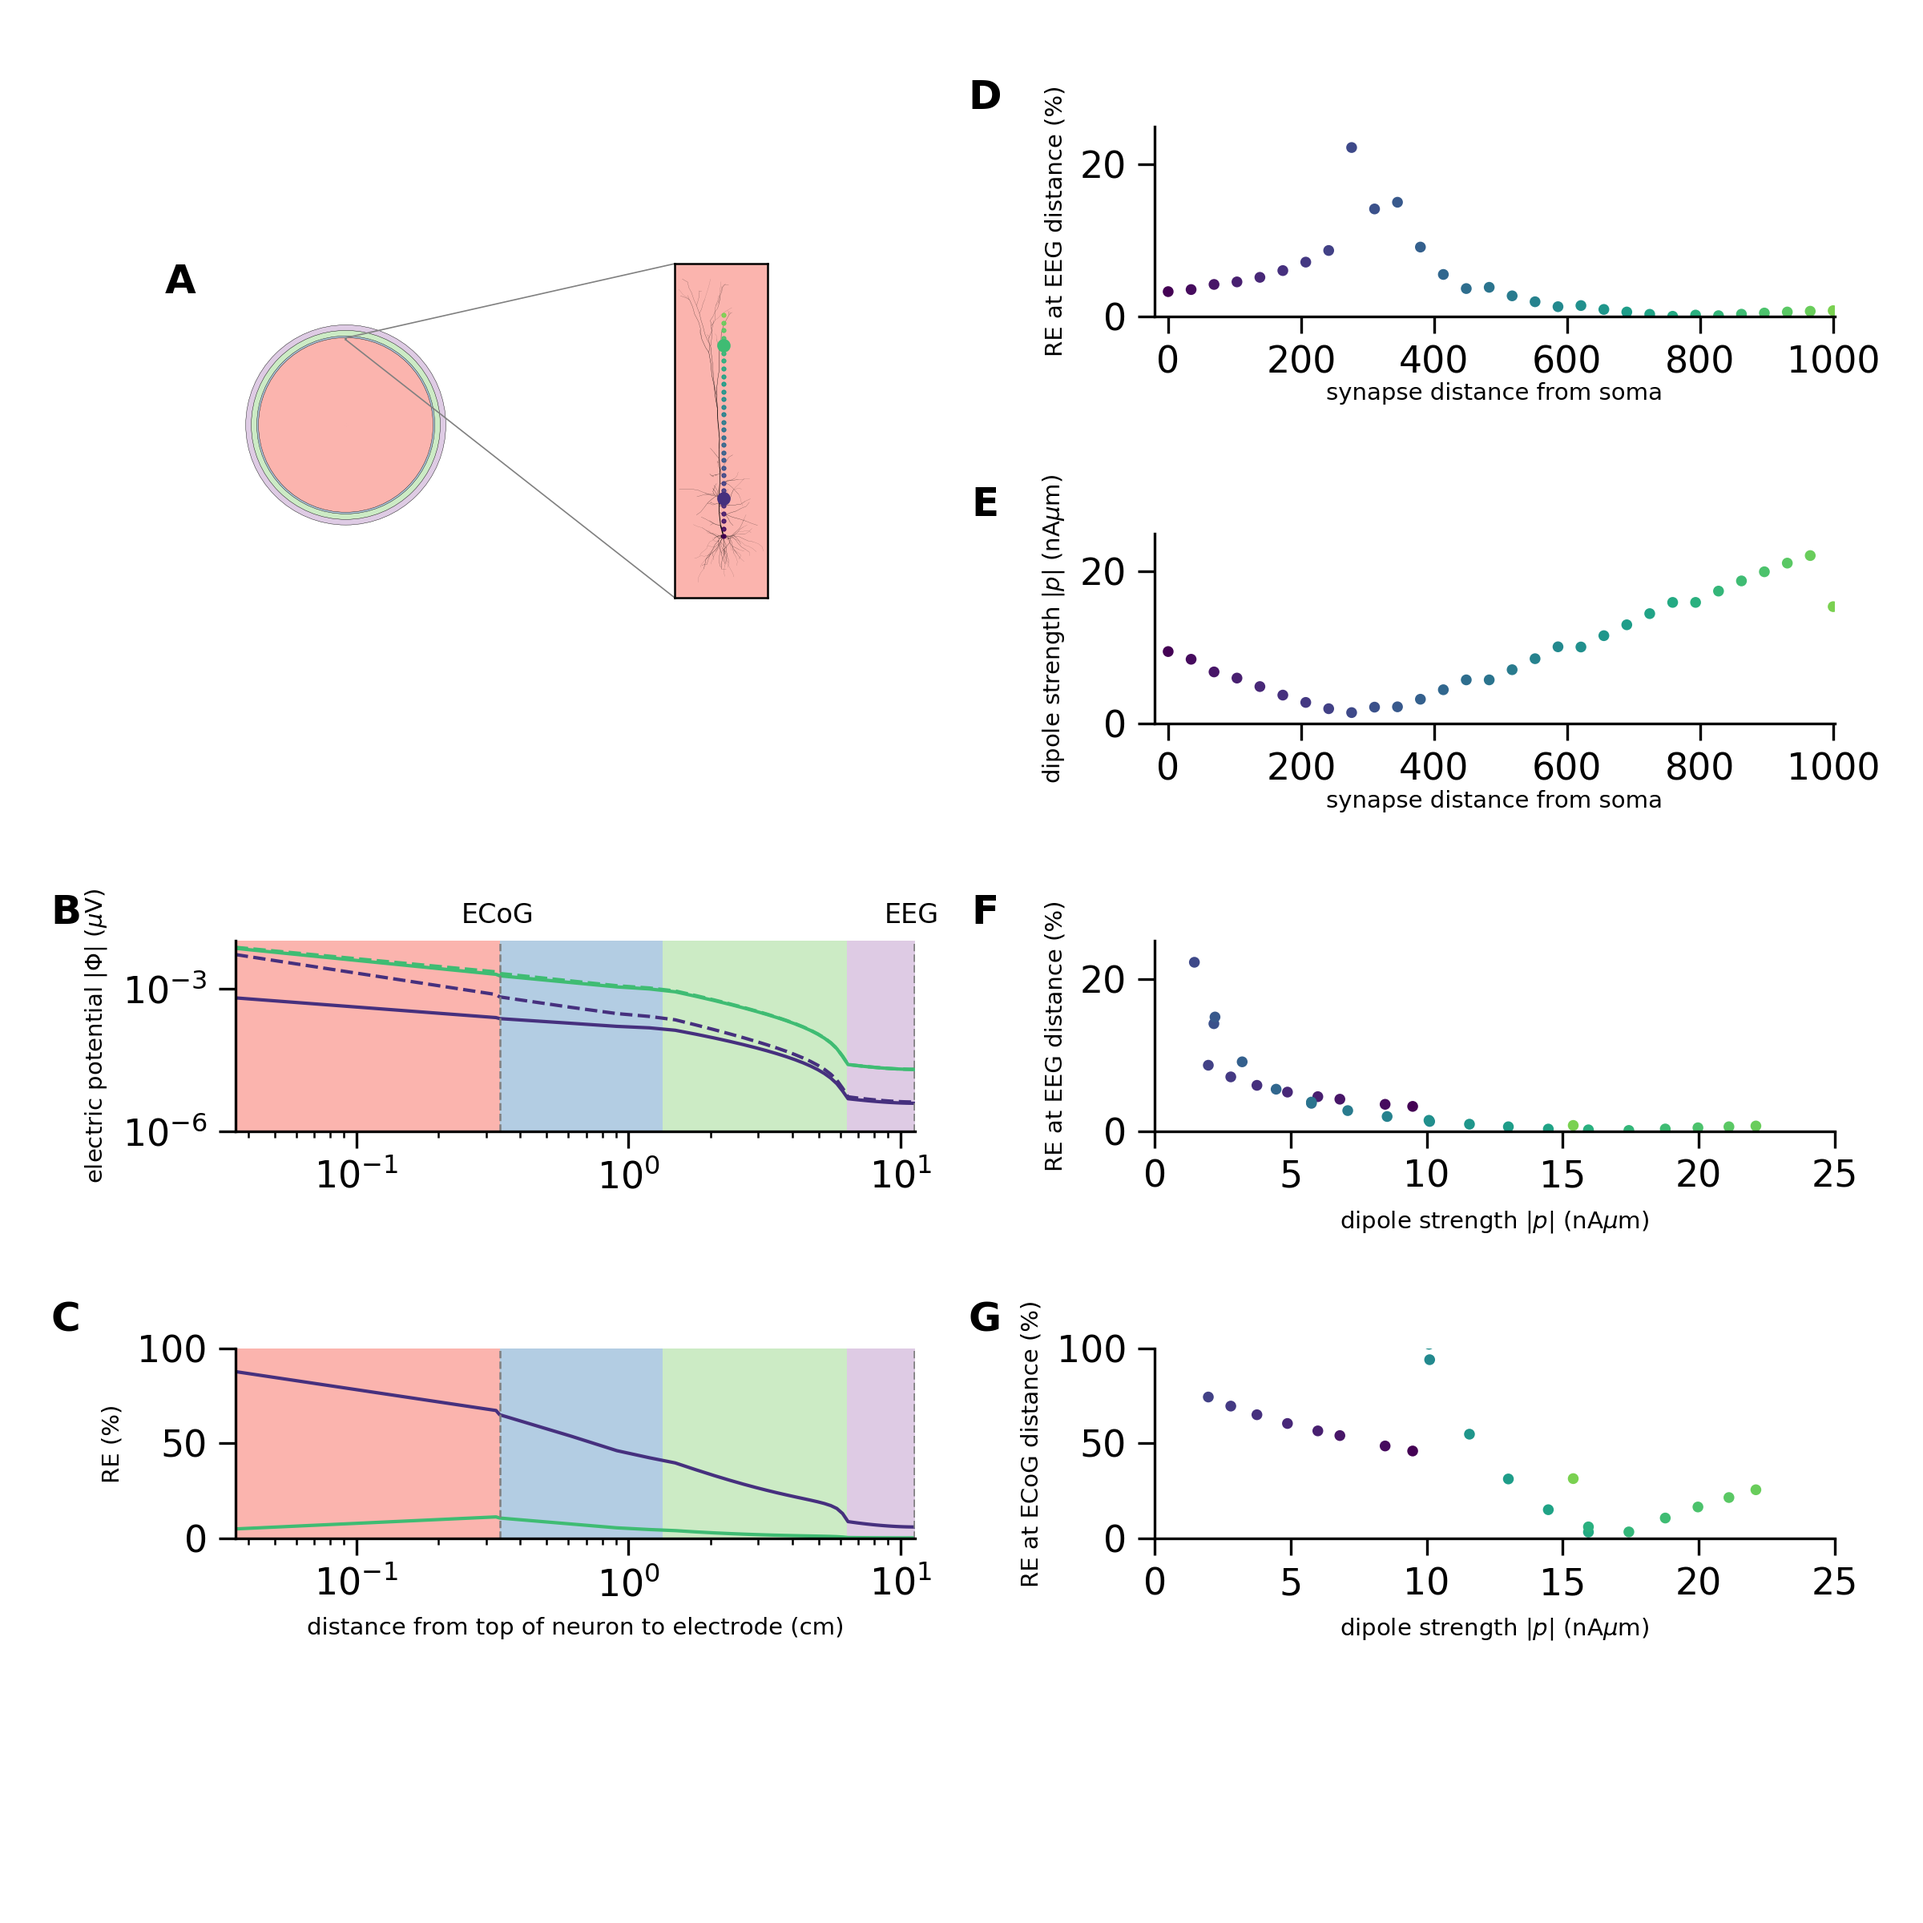
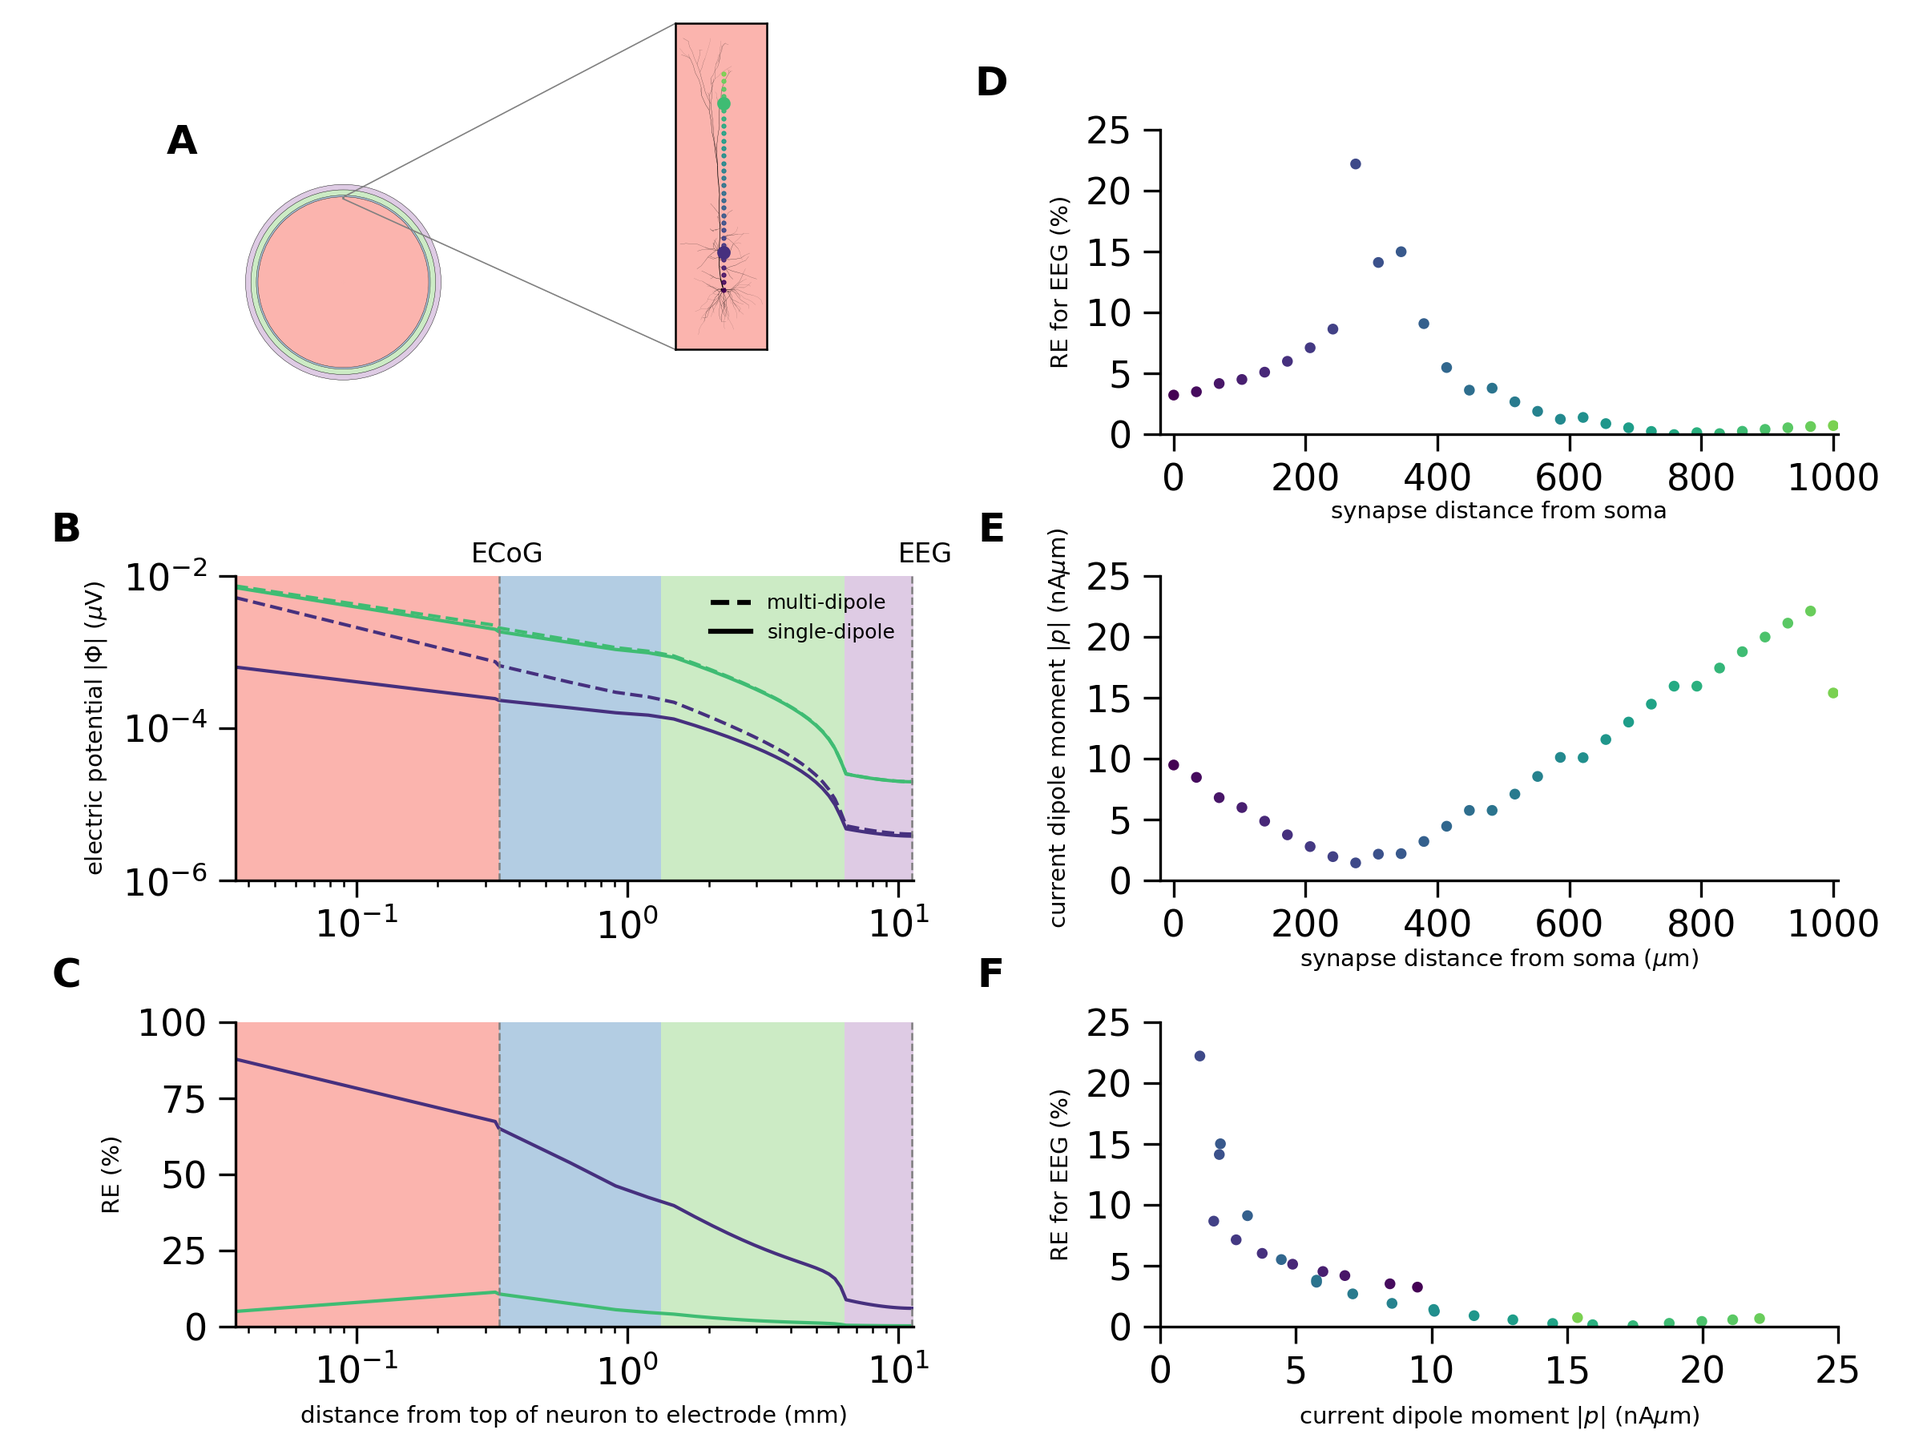
moved ECoG and EEG labels

diff --git a/src/fig_compare_multi_single_dipole.py b/src/fig_compare_multi_single_dipole.py
@@ -355,7 +355,7 @@ if __name__ == '__main__':
     ax_pot_RE.set_ylabel(r'RE (%)', fontsize=7)
     ax_pot_RE.set_xlabel(r'distance from top of neuron to electrode (mm)', fontsize=7)
     # mark ECoG and EEG locations
-    plt.text(0.245, 0.61, 'ECoG', fontsize=8, transform=plt.gcf().transFigure)
+    plt.text(0.16, 0.61, 'ECoG', fontsize=8, transform=plt.gcf().transFigure)
     plt.text(0.467, 0.61, 'EEG', fontsize=8, transform=plt.gcf().transFigure)
 
     for ax in [ax_p, ax_RE_EEG]:
